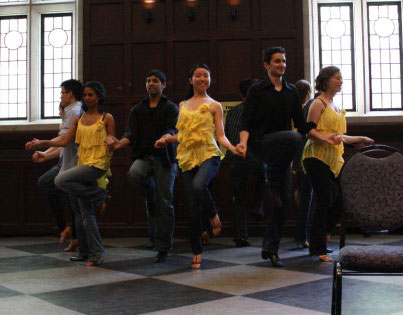
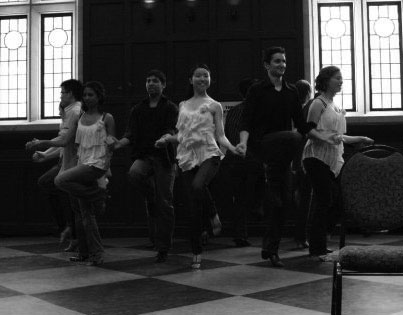
Modified layout and added new greyscale images.

diff --git a/index.html b/index.html
@@ -10,8 +10,8 @@
 </head>
 <body>
   <div class="container clearfix">
-    <div class="grid_4">
-      <img src="img/slug-logo.png" alt="Smells Like Bakin">
+    <div class="grid_3 alpha">
+      <h1>IRENE YIU</h1>
     </div>
     <div class="grid_8 omega">
       <ul class="nav">
@@ -21,26 +21,43 @@
         <li class="last"><a href="#">Contact</a></li>
       </ul>
     </div>
-    <div id="intro" class="grid_9">
-      <h1>Hello! My name is Irene.<br>I am a developer learning Ruby on Rails at Dev Bootcamp. I like to code, travel, dance, and eat meat.</h1>
-      <p><a href="#" class="btn">LEARN MORE</a></p>
+    <div id="intro" class="grid_12">
+      <h1>Hello! My name is Irene.</h1>
+      <h1>I am a developer learning Ruby on Rails at Dev Bootcamp.</h1>
+      <h1>I like to code, travel, dance, and eat meat.</h1>
+     <!-- <p><a href="#" class="btn">LEARN MORE</a></p>-->
     </div>
-    <div class="grid_3 omega">
-      <img src="img/you-bake-me-blush.gif" alt="You Bake Me Blush">
+    <div id="self-portrait" class="grid_12 bordered-image">
     </div>
-
-    <div id="featured-cupcake" class="grid_7">
+    <div id="quirk" class="grid_12">
       <h2>¿Cómo te llamas?</h2>
-      <p>My "quirk" is that I'm a language nerd. When I was 8 years old, I started teaching myself Spanish using a CD-ROM program and a microphone. Later on in college, I learned Mandarin Chinese, Russian, and Spanish -- at one point, simultaneously! I also studied abroad at the Universidad de Sevilla in Spain. More recently I traveled to Paris and taught myself some French.</p>
-      <img src="img/spain.jpg" alt="Avocado Chocolate Cupcake">
+      <p>My "quirk" is that I'm a language nerd. When I was 8 years old, I started teaching myself Spanish using a CD-ROM program and a microphone. Later on in college, I learned Mandarin Chinese, Russian, and Spanish -- at one point, simultaneously! I also studied abroad at the Universidad de Sevilla in Spain. More recently I traveled to Paris and taught myself some French. See pics from my travels!</p>
+    </div>
+    <div class="grid_4 alpha">
+      <img src="img/iceland.jpg" alt="Bacon Me Crazy" class="bordered-image">
+    </div> 
+    <div class="grid_4">
+      <img src="img/paris.jpg" alt="Bacon Me Crazy" class="bordered-image">
+    </div>
+    <div class="grid_4 omega">
+      <img src="img/versailles.jpg" alt="Bacon Me Crazy" class="bordered-image">
+    </div> 
+
+    <div id="dance" class="grid_12">
+      <h2>On the Dance Floor</h2>
+      <p>I used to dance latin and ballroom competitvely. Rumba, cha cha, samba, waltz, foxtrot... you name it! Nowadays, I'll dance salsa and bachata occassionally. I also like to break it down Gangnam Style.</p>
     </div>
 
-    <div id="new-cupcakes" class="grid_5 omega">
-      <h2>On the Dance Floor</h2>
-      <p>I used to dance latin and ballroom competitvely. Rumba, cha cha, samba, waltz, foxtrot... you name it! Nowadays, I'll dance salsa and bachata occassionally. I can also do the sprinkler and stir the pot.</p>
-      <img src="img/dance-1.jpg" alt="Bacon Me Crazy">
-      <img src="img/dance-2.jpg" alt="Jalapeno So Spicy">
+    <div class="grid_7 alpha">
+      <img src="img/psy.jpg" alt="La Feria 2009 in Spain" class="bordered-image">
     </div>
+    <div class="grid_5 omega">
+      <img src="img/dance-1.jpg" alt="Bacon Me Crazy" class="bordered-image">
+      <img src="img/dance-2.jpg" alt="Jalapeno So Spicy" class="bordered-image">
+    </div>
+
+ 
+
 
     <div class="grid_7">
       <h2>About Me</h2>

diff --git a/css/style.css b/css/style.css
@@ -12,6 +12,7 @@ a {
 h1 {
   font-size: 1.750em;
   letter-spacing: -1.5px;
+  line-height: 15px
 }
 
 h2 {
@@ -49,6 +50,7 @@ ul.nav li a {
 
 #intro {
   margin: 50px 0 75px 0;
+  text-align: center;
 }
 
 #new-cupcakes img {
@@ -67,11 +69,19 @@ ul.nav li a {
   text-align: center;
 }
 
+.bordered-image {
+  border: 8px solid #d3d3d3;
+}
 
+#self-portrait {
+  background-image: url('img/self.jpg');
+  width: 960px;
+  height: 340px;
+}
 
-
-
-
+.grid_12 {
+  text-align: center;
+}
 
 
 
